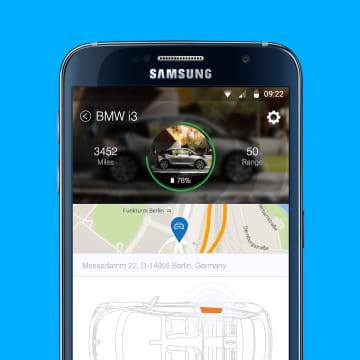
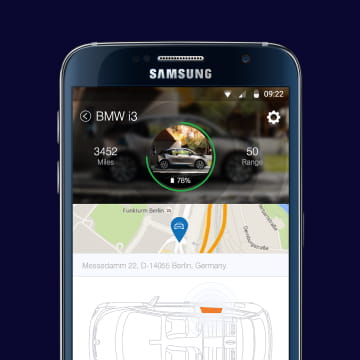
Alternate highlight cards between left and right bento columns

diff --git a/experience/portfolio/index.html b/experience/portfolio/index.html
@@ -2915,21 +2915,8 @@
       const rawRegular = all.filter(p => config ? !largeSet.has(p.slug) : !p.featured);
 
       const highlights = activeFilter === 'all' ? (config?.highlights || []).filter(h => h.text) : [];
-      const regular = [];
-      let hi = 0;
-      // First highlight above the fold
-      if (hi < highlights.length) {
-        regular.push({ type: 'highlight', data: highlights[hi++] });
-      }
-      rawRegular.forEach((p, i) => {
-        regular.push({ type: 'project', data: p });
-        if (hi < highlights.length && (i + 1) % 3 === 0) {
-          regular.push({ type: 'highlight', data: highlights[hi++] });
-        }
-      });
-      while (hi < highlights.length) regular.push({ type: 'highlight', data: highlights[hi++] });
 
-      let fi = 0, ri = 0, rowIdx = 0;
+      let fi = 0, ri = 0, hi = 0, rowIdx = 0;
 
       function makeSlot(item) {
         if (!item) {
@@ -2940,11 +2927,21 @@
         return item.type === 'highlight' ? makeHighlight(item.data) : makeCard(item.data, false);
       }
 
-      // Alternating rows: featured-left / featured-right, each paired with 2 regular slots
+      // Alternating rows: featured-left / featured-right.
+      // Highlights are injected into the pair column, alternating sides:
+      // even-indexed highlights -> even rows (right pair), odd-indexed -> odd rows (left pair).
       while (fi < featured.length) {
         const f = featured[fi++];
-        const pair = regular.slice(ri, ri + 2);
-        ri += pair.length;
+        let slot0, slot1;
+
+        // Inject a highlight if it "belongs" on this row's side
+        if (hi < highlights.length && rowIdx % 2 === hi % 2) {
+          slot0 = { type: 'highlight', data: highlights[hi++] };
+          slot1 = rawRegular[ri] ? { type: 'project', data: rawRegular[ri++] } : null;
+        } else {
+          slot0 = rawRegular[ri] ? { type: 'project', data: rawRegular[ri++] } : null;
+          slot1 = rawRegular[ri] ? { type: 'project', data: rawRegular[ri++] } : null;
+        }
 
         const row = document.createElement('div');
         row.className = 'bento-row';
@@ -2952,8 +2949,8 @@
         const featuredCard = makeCard(f, true);
         const pairCol = document.createElement('div');
         pairCol.className = 'bento-row-pair';
-        pairCol.appendChild(makeSlot(pair[0]));
-        pairCol.appendChild(makeSlot(pair[1]));
+        pairCol.appendChild(makeSlot(slot0));
+        pairCol.appendChild(makeSlot(slot1));
 
         if (rowIdx % 2 === 0) {
           row.appendChild(featuredCard);
@@ -2967,8 +2964,20 @@
         rowIdx++;
       }
 
-      // Leftover slots: chunk into rows of 3
-      const leftover = regular.slice(ri);
+      // Leftover slots: weave remaining highlights into rows of 3
+      const leftoverProjects = rawRegular.slice(ri);
+      const leftover = [];
+      let lhi = 0;
+      const remainingHighlights = highlights.slice(hi);
+      if (remainingHighlights.length > 0) leftover.push({ type: 'highlight', data: remainingHighlights[lhi++] });
+      leftoverProjects.forEach((p, i) => {
+        leftover.push({ type: 'project', data: p });
+        if (lhi < remainingHighlights.length && (i + 1) % 3 === 0) {
+          leftover.push({ type: 'highlight', data: remainingHighlights[lhi++] });
+        }
+      });
+      while (lhi < remainingHighlights.length) leftover.push({ type: 'highlight', data: remainingHighlights[lhi++] });
+
       for (let i = 0; i < leftover.length; i += 3) {
         const tail = document.createElement('div');
         tail.className = 'bento-row-tail';
